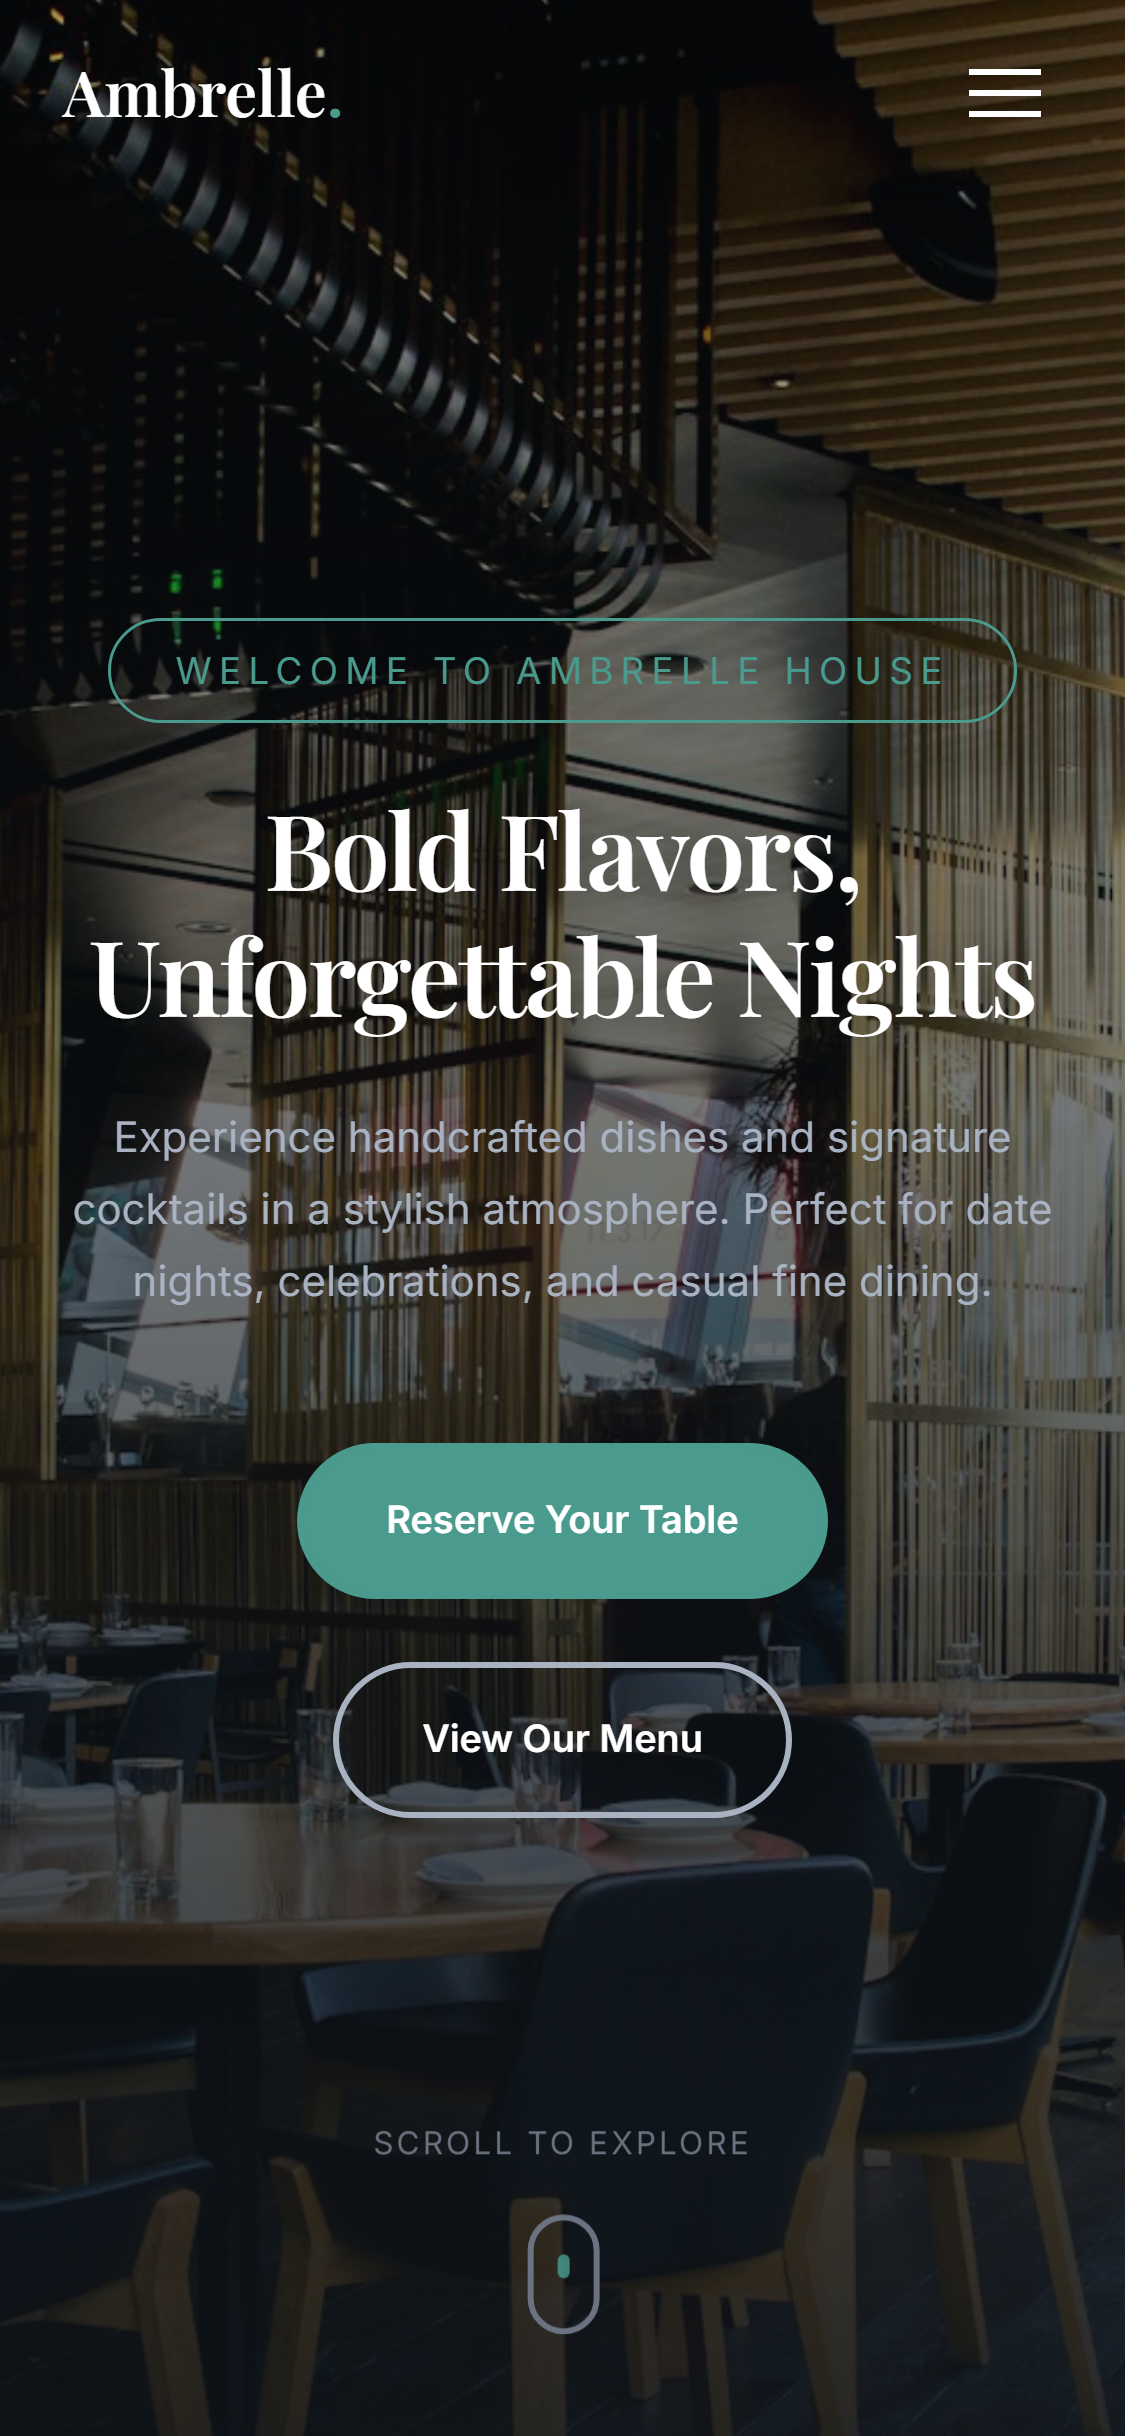
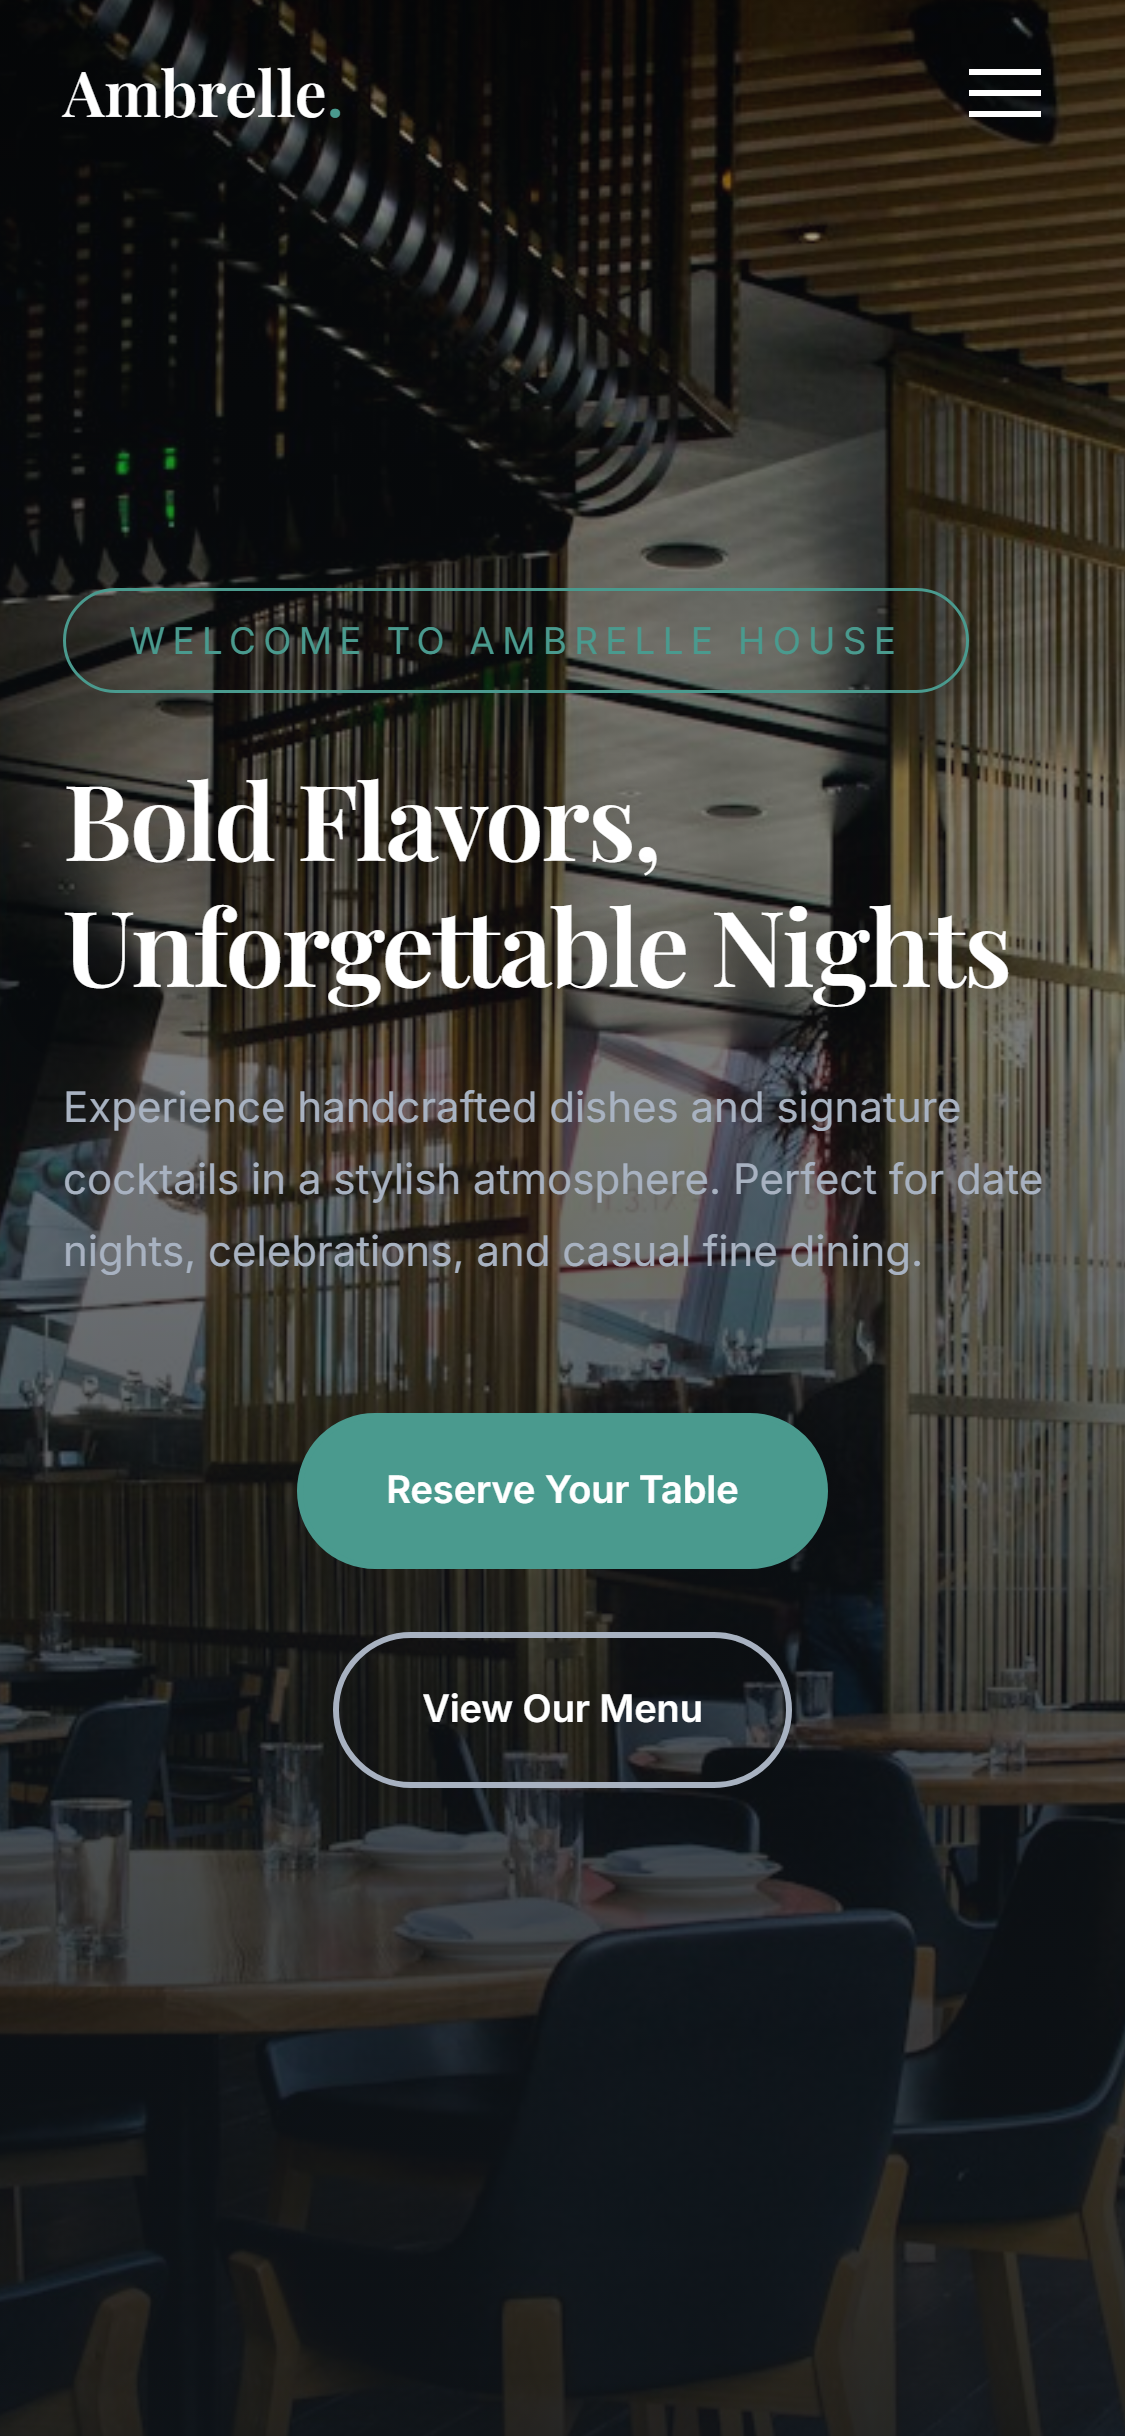
fix: resolve hero scroll indicator overlaps on Sterling & Vance and Ambrelle House websites

diff --git a/work.html b/work.html
@@ -124,7 +124,7 @@
                                             <span class="macbook-led"></span>
                                         </div>
                                         <div class="macbook-viewport">
-                                            <img src="images/sterling-desktop.png?v=5" alt="Sterling & Vance Corporate Law Desktop" class="macbook-img" />
+                                            <img src="images/sterling-desktop.png?v=7" alt="Sterling & Vance Corporate Law Desktop" class="macbook-img" />
                                         </div>
                                         <div class="macbook-reflection"></div>
                                     </div>
@@ -136,7 +136,7 @@
                                     <div class="iphone-screen">
                                         <div class="iphone-island"></div>
                                         <div class="iphone-viewport">
-                                            <img src="images/sterling-mobile.png?v=5" alt="Sterling & Vance Corporate Law Mobile" class="iphone-img" />
+                                            <img src="images/sterling-mobile.png?v=7" alt="Sterling & Vance Corporate Law Mobile" class="iphone-img" />
                                         </div>
                                         <div class="iphone-reflection"></div>
                                         <div class="iphone-home-bar"></div>
@@ -168,7 +168,7 @@
                                             <span class="macbook-led"></span>
                                         </div>
                                         <div class="macbook-viewport">
-                                            <img src="images/ambrelle-desktop.png?v=6" alt="Ambrelle House Restaurant Desktop" class="macbook-img" />
+                                            <img src="images/ambrelle-desktop.png?v=7" alt="Ambrelle House Restaurant Desktop" class="macbook-img" />
                                         </div>
                                         <div class="macbook-reflection"></div>
                                     </div>
@@ -180,7 +180,7 @@
                                     <div class="iphone-screen">
                                         <div class="iphone-island"></div>
                                         <div class="iphone-viewport">
-                                            <img src="images/ambrelle-mobile.png?v=6" alt="Ambrelle House Restaurant Mobile" class="iphone-img" />
+                                            <img src="images/ambrelle-mobile.png?v=7" alt="Ambrelle House Restaurant Mobile" class="iphone-img" />
                                         </div>
                                         <div class="iphone-reflection"></div>
                                         <div class="iphone-home-bar"></div>

diff --git a/clients/sterling-vance/styles.css b/clients/sterling-vance/styles.css
@@ -173,7 +173,9 @@ body.intro-done #particle-canvas {
   opacity: 0.6;
 }
 .hero-scroll {
-  transition: opacity 1.5s ease 0.8s, transform 1.5s ease 0.8s;
+  position: absolute; bottom: 24px; left: 50%; transform: translateX(-50%);
+  font-size: .70rem; letter-spacing: .3em; text-transform: uppercase;
+  color: var(--text-soft); display: flex; flex-direction: column; align-items: center; gap: 8px; z-index: 5;
 }
 body:not(.intro-done) .hero-scroll {
   opacity: 0;
@@ -263,10 +265,7 @@ body.intro-done .hero-scroll {
 @media (max-width: 600px) { .menu-meta { flex-direction: column; gap: 12px; text-align: center; padding: 0 24px; } }
 
 /* Hero */
-.hero {
-  min-height: 100vh; display: flex; align-items: center; position: relative;
-  overflow: hidden; padding: 160px 0 100px;
-}
+.hero { position: relative; min-height: 100vh; display: flex; align-items: center; justify-content: center; padding: 140px 0 160px 0; overflow: hidden; }
 #particle-canvas {
   position: absolute; inset: 0; z-index: 0; opacity: .55;
 }
@@ -303,7 +302,7 @@ body.intro-done .hero-scroll {
   color: var(--text-soft); display: flex; flex-direction: column; align-items: center; gap: 12px;
 }
 .hero-scroll::after {
-  content: ''; width: 1px; height: 50px; background: var(--accent);
+  content: ''; width: 1px; height: 32px; background: var(--accent);
   animation: scrollLine 2s var(--ease) infinite;
 }
 @keyframes scrollLine { 0%,100% { transform: scaleY(.3); transform-origin: top; } 50% { transform: scaleY(1); } }
@@ -558,3 +557,10 @@ body.intro-done .hero-scroll {
 /* Utility */
 .divider { width: 60px; height: 1px; background: var(--accent); margin-bottom: 30px; }
 .text-center { text-align: center; }
+
+
+@media (max-height: 820px), (max-width: 768px) {
+  .hero-scroll {
+    display: none !important;
+  }
+}

diff --git a/clients/ambrelle-house/css/styles.css b/clients/ambrelle-house/css/styles.css
@@ -457,7 +457,7 @@ p {
   display: flex;
   align-items: center;
   justify-content: center;
-  text-align: center;
+  padding: 140px 0 160px 0;
   overflow: hidden;
 }
 
@@ -531,23 +531,24 @@ body.loading .hero-background {
 
 .hero-scroll {
   position: absolute;
-  bottom: var(--spacing-xl);
+  bottom: 24px;
   left: 50%;
   transform: translateX(-50%);
   display: flex;
   flex-direction: column;
   align-items: center;
-  gap: var(--spacing-sm);
+  gap: 6px;
   color: var(--color-text-muted);
-  font-size: 0.75rem;
+  font-size: 0.70rem;
   letter-spacing: 0.1em;
   text-transform: uppercase;
   animation: bounce 2s ease-in-out infinite;
+  z-index: 5;
 }
 
 .hero-scroll-icon {
-  width: 24px;
-  height: 40px;
+  width: 20px;
+  height: 32px;
   border: 2px solid var(--color-text-muted);
   border-radius: var(--radius-full);
   position: relative;
@@ -2117,4 +2118,11 @@ body.loading .page-header-background {
 
 @keyframes spin {
   to { transform: rotate(360deg); }
+}
+
+
+@media (max-height: 820px), (max-width: 768px) {
+  .hero-scroll {
+    display: none !important;
+  }
 }
